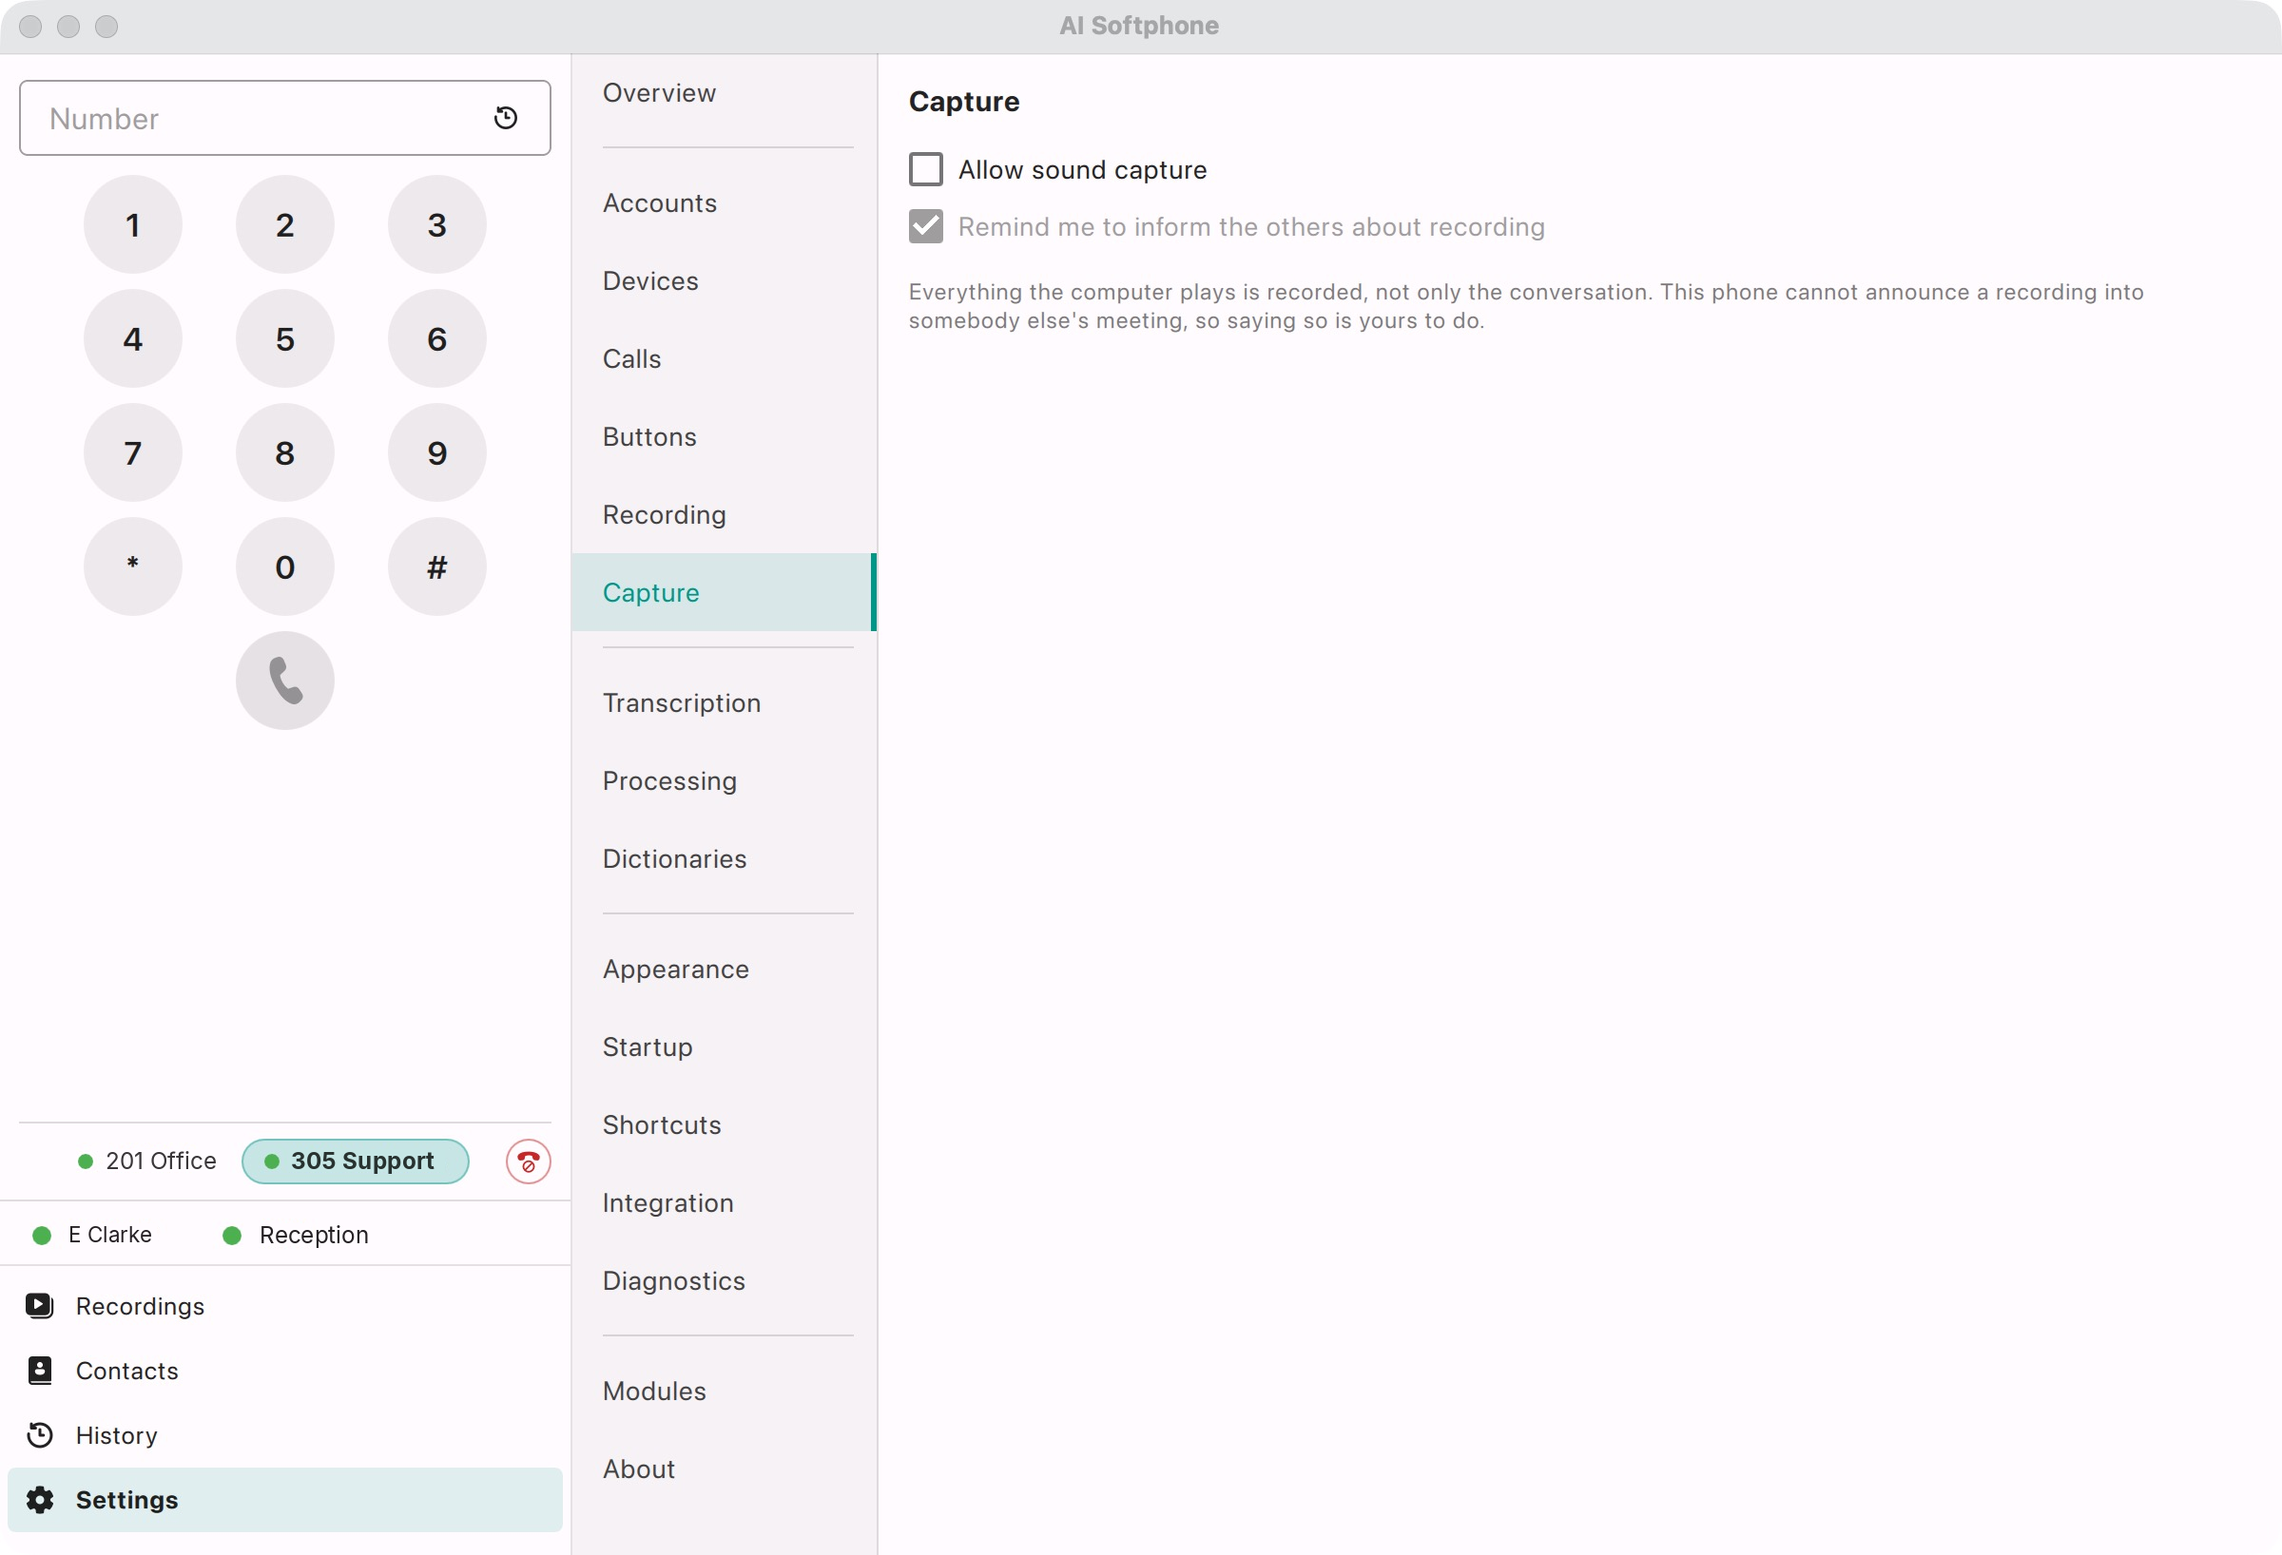
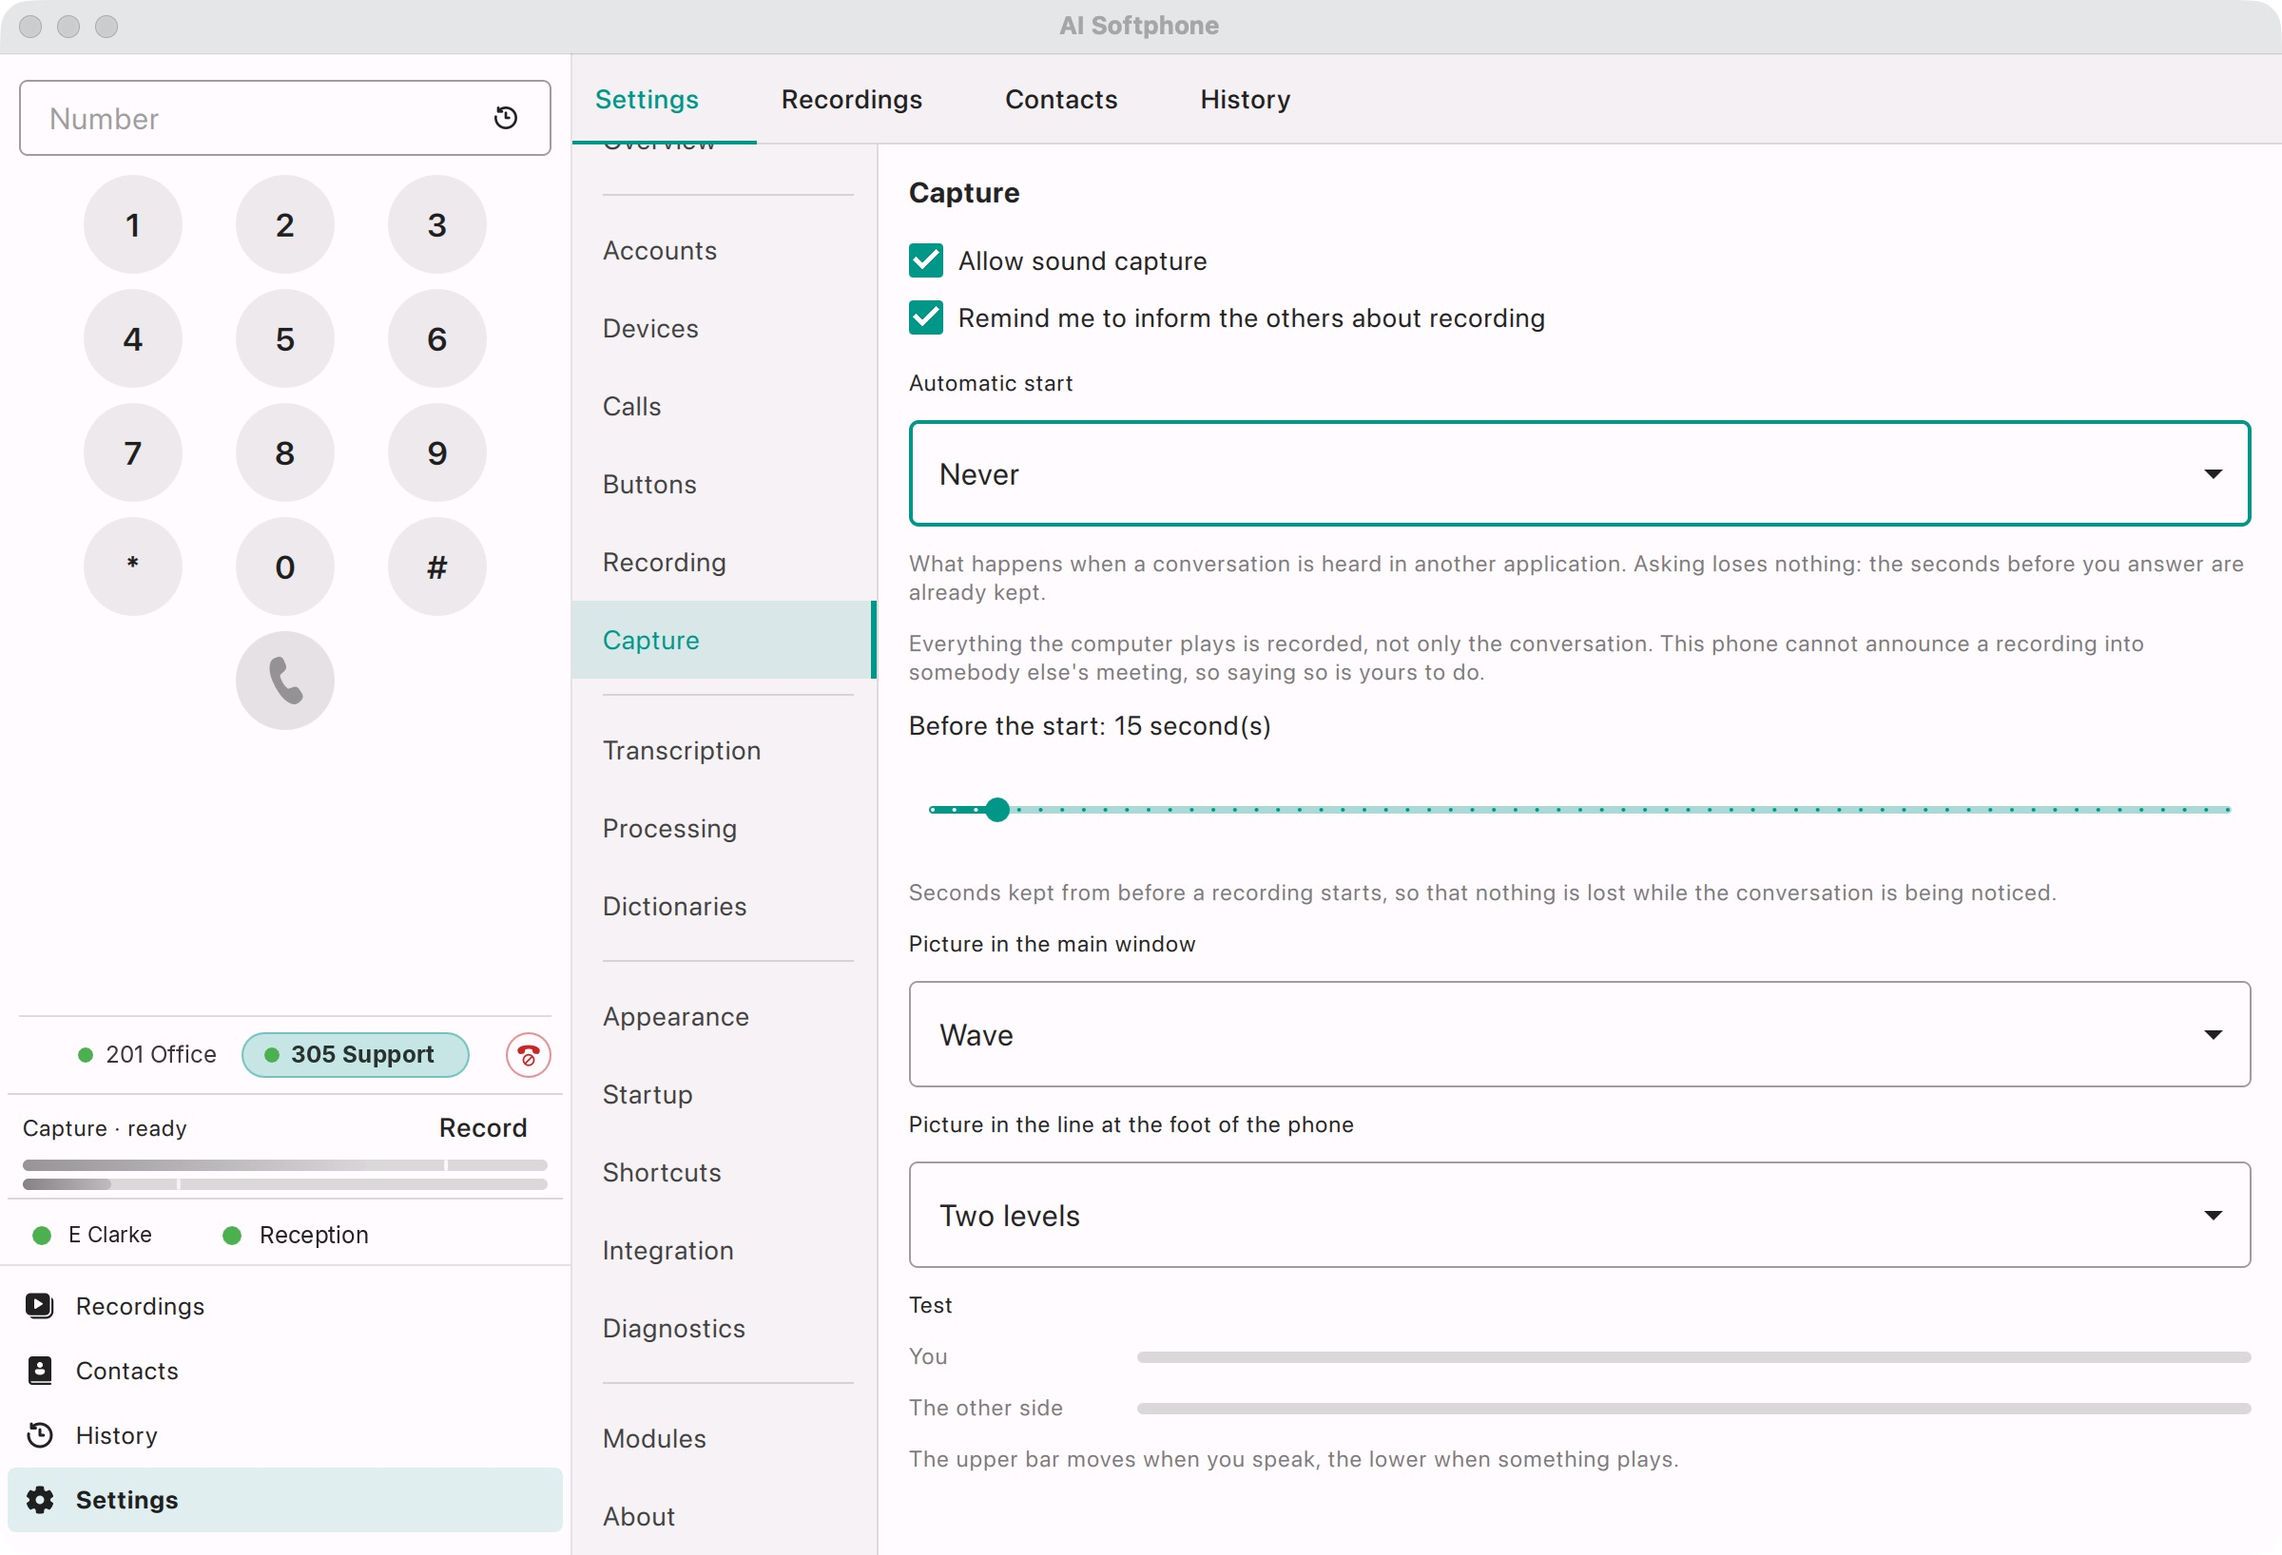
Capture: document automatic start, pre-roll, pictures and the test; add common problems and a glossary
The new Settings → Capture screenshot shows Automatic start (Never by
default), Before the start (15 s), two picture settings and a test of both
channels, and the Capture strip at the foot of the phone. The main window
page describes the strip.

diff --git a/docs/troubleshooting/common-problems.md b/docs/troubleshooting/common-problems.md
@@ -1,0 +1,83 @@
+---
+title: Common problems
+sidebar_position: 2
+description: "What to check when an account will not register, there is no sound, a call or a meeting is not recorded, there is no transcript, or a link, a hotkey or the API does nothing."
+---
+
+Each entry points to the setting that decides it. If the answer is not here, open [Diagnostics](/troubleshooting/diagnostics): it shows what the phone and the PBX say to each other.
+
+## The account will not register
+
+The dot next to the account in **Settings → Accounts** stays grey or red.
+
+1. Check **Username**, **Password** and **Server address** in [the account form](/sip-accounts/setup).
+2. If your PBX checks the password under another name than the extension, fill in **Authentication user** under **Server settings**.
+3. Check **Transport** and **Port** against what the PBX expects.
+4. Open the **SIP** tab of the [diagnostics window](/troubleshooting/diagnostics) and look at the `REGISTER` request and what the server answered.
+
+## I cannot hear, or I cannot be heard
+
+Open [Settings → Devices](/sip-accounts/devices).
+
+- Say something: the bar under **Microphone** must move. If it does not, choose another microphone.
+- Press **Test** under **Speakers** to hear a sound on the device you chose.
+- Check the **Volume** sliders. **Mute** in the call card and the **Mute the microphone** [hotkey](/program/shortcuts) switch the microphone off during a call.
+- The ringtone can be set to ring on a different device from the one you talk on — **Ringtone**, the second drop-down.
+
+## The call sounds bad, or does not start
+
+The codecs are offered in the order of the list under [Settings → Calls](/sip-accounts/calls#audio-formats). Leave on the codecs your PBX uses, and put the best of them first. A change applies from your next call.
+
+## A second call does not ring
+
+What happens when somebody rings while you are on a call is set under [Call waiting](/sip-accounts/calls#call-waiting).
+
+## A call was not recorded
+
+- **Settings → Recording**, the first drop-down, decides which calls are recorded; see [Recording calls](/recordings/call-recording).
+- Recording starts when the call is answered, so a call that was not answered has no file.
+- The **Recording** module must be on in [Modules](/program/modules).
+- Recordings are removed by the limits under **Retention**; a pinned recording is never removed.
+
+## A meeting in another application was not captured
+
+See [Capture](/capture/).
+
+- **Allow sound capture** in **Settings → Capture** must be on.
+- **Automatic start** is **Never** by default: press **Record** yourself.
+- Use **Test** on the same tab: the upper bar must move when you speak, the lower when something plays.
+- The **Capture** module must be on in [Modules](/program/modules).
+
+## There is a recording, but no transcript or summary
+
+- A conversation is transcribed and written up by itself only if **Process conversations automatically** is on in [Settings → Processing](/ai-processing/processing). Otherwise ask for it in the [Recordings window](/recordings/recordings-window).
+- There has to be a [recogniser](/ai-processing/transcription) and a [language model](/ai-processing/processing#language-models), and each has to answer at its address.
+- When the monthly **Money limit** or **Token limit** is reached, the automatic rules stop until the month turns. Asking for something yourself is never stopped.
+- The steps of [Settings → Overview](/interface/settings-overview) show what is still to set up.
+
+## The phone disappeared when I closed the window
+
+With **Keep the phone running when the window is closed** on, the phone is still running, and calls still arrive. The icon in the notification area (the menu bar on macOS) brings the window back. See [Startup](/program/startup).
+
+## A phone number in a browser or a CRM does not call
+
+Press **Open call links with this phone** in [Settings → Startup](/program/startup#call-links). A clicked number arrives in the dialler and waits there unless **Call straight away, without pressing Call** is on.
+
+## A button's lamp stays grey
+
+The PBX does not say whether the extension is free. The button still dials. See [Buttons](/sip-accounts/buttons).
+
+## The REST API does not answer
+
+- **Let other programs on this computer drive the phone** must be on in [Settings → Integration](/integration/rest-api), and the **Integration** module in [Modules](/program/modules).
+- The address is `http://127.0.0.1:8377` unless you changed the **Port**.
+- A group you did not open under **Access** answers every request with `404`.
+- If you set a **Token**, requests that change something must carry it in the `Authorization` header.
+
+## Webhooks do not arrive
+
+Press **Send a test event** in [Settings → Integration](/integration/webhooks). The counters `webhooks_failed_total` and `webhooks_dropped_total` of the REST API show how delivery is going.
+
+## A hotkey does nothing
+
+Open [Shortcuts](/program/shortcuts). A shortcut works while the phone is the program you are using; to use it from any program, tick **Everywhere**. Click the shortcut and press the combination again if another program has taken it.

diff --git a/docs/glossary.md b/docs/glossary.md
@@ -1,0 +1,31 @@
+---
+title: Glossary
+sidebar_position: 99
+description: The terms of IP telephony and of AI Softphone used in this documentation, in one place.
+---
+
+| Term | Meaning |
+| --- | --- |
+| **Account** | A line: a SIP username on a PBX or with a provider. You can be signed in on several. See [Setting up a SIP account](/sip-accounts/setup). |
+| **BLF** (Busy Lamp Field) | A button that dials an extension and shows by a lamp whether it is free, ringing or busy. See [Buttons](/sip-accounts/buttons). |
+| **Call waiting** | What the phone does when somebody rings while you are already on a call. See [Calls settings](/sip-accounts/calls#call-waiting). |
+| **Capture** | Recording a conversation held in another application, such as Zoom, Teams or Meet. See [Capture](/capture/). |
+| **Category** | What a conversation was about; one per conversation. See [Dictionaries](/ai-processing/dictionaries). |
+| **Codec** | The way the voice is encoded for the line. The phone offers a list of them and the other end picks one. See [Calls settings](/sip-accounts/calls#audio-formats). |
+| **Conference** | Calls joined into one. |
+| **CTI** | Computer telephony integration: a program on the computer placing and watching calls. See [Local REST API](/integration/rest-api). |
+| **DTMF** | The tones of the keypad, sent during a call. |
+| **Extension** | The internal number of a person or a device on a PBX. |
+| **IP PBX** | The telephone exchange of an office, running on a network; also called a softswitch. |
+| **Language model** | The AI that reads a transcript and writes about it. See [Processing](/ai-processing/processing). |
+| **Prompt** | What a language model is asked. See [Prompt Studio](/ai-processing/prompt-studio). |
+| **Recogniser** | The service that turns audio into text (speech recognition). See [Transcription](/ai-processing/transcription). |
+| **Red flag** | A thing in a conversation that needs attention, with the evidence and the time. See [Dictionaries](/ai-processing/dictionaries#red-flags). |
+| **Registration** | The phone telling the PBX where it is, so that calls reach it. A green dot on the account means it is registered. |
+| **Rule** | A step that runs by itself, in order, on every conversation. See [Processing](/ai-processing/processing#rules). |
+| **SIP** | The protocol phones and PBXs use to set up calls. |
+| **Tag** | A label; several may be true of one conversation. See [Dictionaries](/ai-processing/dictionaries#tags). |
+| **Token** | Two things: the **Token** of the local API, a password for other programs; and the tokens a language model counts, the unit of the monthly **Token limit**. |
+| **Transcript** | A conversation as text, turn by turn, in step with the audio. |
+| **Webhook** | A request the phone sends to another system when a call starts, changes or ends. See [Webhooks](/integration/webhooks). |
+| **Wideband** | A codec with a wider range of sound than a phone line has, so the voice is clearer. |

diff --git a/docs/capture/capture.md b/docs/capture/capture.md
@@ -31,18 +31,41 @@ Everything the computer plays is recorded, not only the conversation. This phone
 
 The part of the program that does this is the **Capture** module, *recording a conversation happening in another application*. It can be switched off in [Modules](../program/modules.md).
 
+## Starting a capture
+
+Once capture is allowed, the bottom of the [main window](../interface/main-window.md#capture) shows its state — **Capture · ready** — with a **Record** button at the right. Press **Record** to start by hand.
+
+### Automatic start
+
+**Automatic start** decides what happens when the program hears a conversation in another application. The default is **Never**: a capture starts only when you press **Record**. The other choices let the program start on its own or ask you first.
+
+*Asking loses nothing: the seconds before you answer are already kept.*
+
+### Before the start
+
+The slider **Before the start** is how many seconds of sound are kept from before a recording starts, **15 seconds** by default. It is there so that nothing is lost while the conversation is being noticed: a recording that starts when you press **Record**, or when you answer the question, still begins with the words that came before.
+
 ## Capturing a conversation
 
-Once capture is allowed, the bottom of the [main window](../interface/main-window.md) shows its state, for example **Capture · ready**, with a **Record** button at the right.
-
-- Recording can start **automatically** when a conversation is detected, or by hand with **Record**.
-- While it records, the main window shows a red dot, the name of the recording (for example **Meeting in Zoom**), the time that has passed and the two channels as waveforms.
+While it records, the main window shows a red dot, the name of the recording (for example **Meeting in Zoom**), the time that has passed and the two channels as waveforms.
 
 <Shot src="https://ai-softphone.com/screenshots/macos/en/light/capture.png" alt="Recording a meeting" />
 
 - **Stop recording** ends it.
+- The window stays visible while it records, and reminds you to tell the participants that the meeting is being recorded.
 
-The window stays visible while it records, and reminds you to tell the participants that the meeting is being recorded.
+### What the picture shows
+
+Two more settings choose how the level of the sound is drawn:
+
+| Setting | Default | Where |
+| --- | --- | --- |
+| **Picture in the main window** | Wave | The two channels while a capture is going on. |
+| **Picture in the line at the foot of the phone** | Two levels | The two thin bars under **Capture · ready**. |
+
+### Testing it
+
+Under **Test** the tab has two bars: **You** and **The other side**. *The upper bar moves when you speak, the lower when something plays.* Before an important meeting, say a word and play any sound to see that the program hears both sides.
 
 ## Giving it a name
 

diff --git a/docs/interface/main-window.md b/docs/interface/main-window.md
@@ -67,8 +67,14 @@ What happens when somebody rings while you are already on a call is set in [Call
 
 Calls that have been joined show as one **Conference** card on the account's line. Each participant is listed with the time in the call and their own **Hang up** button. The buttons below record, mute and end the conference for everybody; the wide button at the bottom splits the conference back into separate calls.
 
-## Capture of other applications
+## Capture
 
-When [capture](../capture/capture.md) is allowed, the bottom of the window also shows its state, for example **Capture · ready**, with a **Record** button that starts it by hand.
+When [capture of other applications](../capture/capture.md) is allowed in **Settings → Capture**, a strip appears between the account chips and the buttons.
+
+<Shot name="10_settings_capture" full alt="The Capture strip at the foot of the phone: Capture · ready, Record and two level bars" />
+
+- **Capture · ready** says that the program is listening for a conversation in another application.
+- **Record** starts a capture by hand.
+- The two thin bars under it show the level of the sound: the upper one is you, the lower one is what the computer plays. How they are drawn is set under **Picture in the line at the foot of the phone**.
 
 The program can also live in the tray (the menu bar on macOS) and be brought up with a [hotkey](../program/shortcuts.md).
